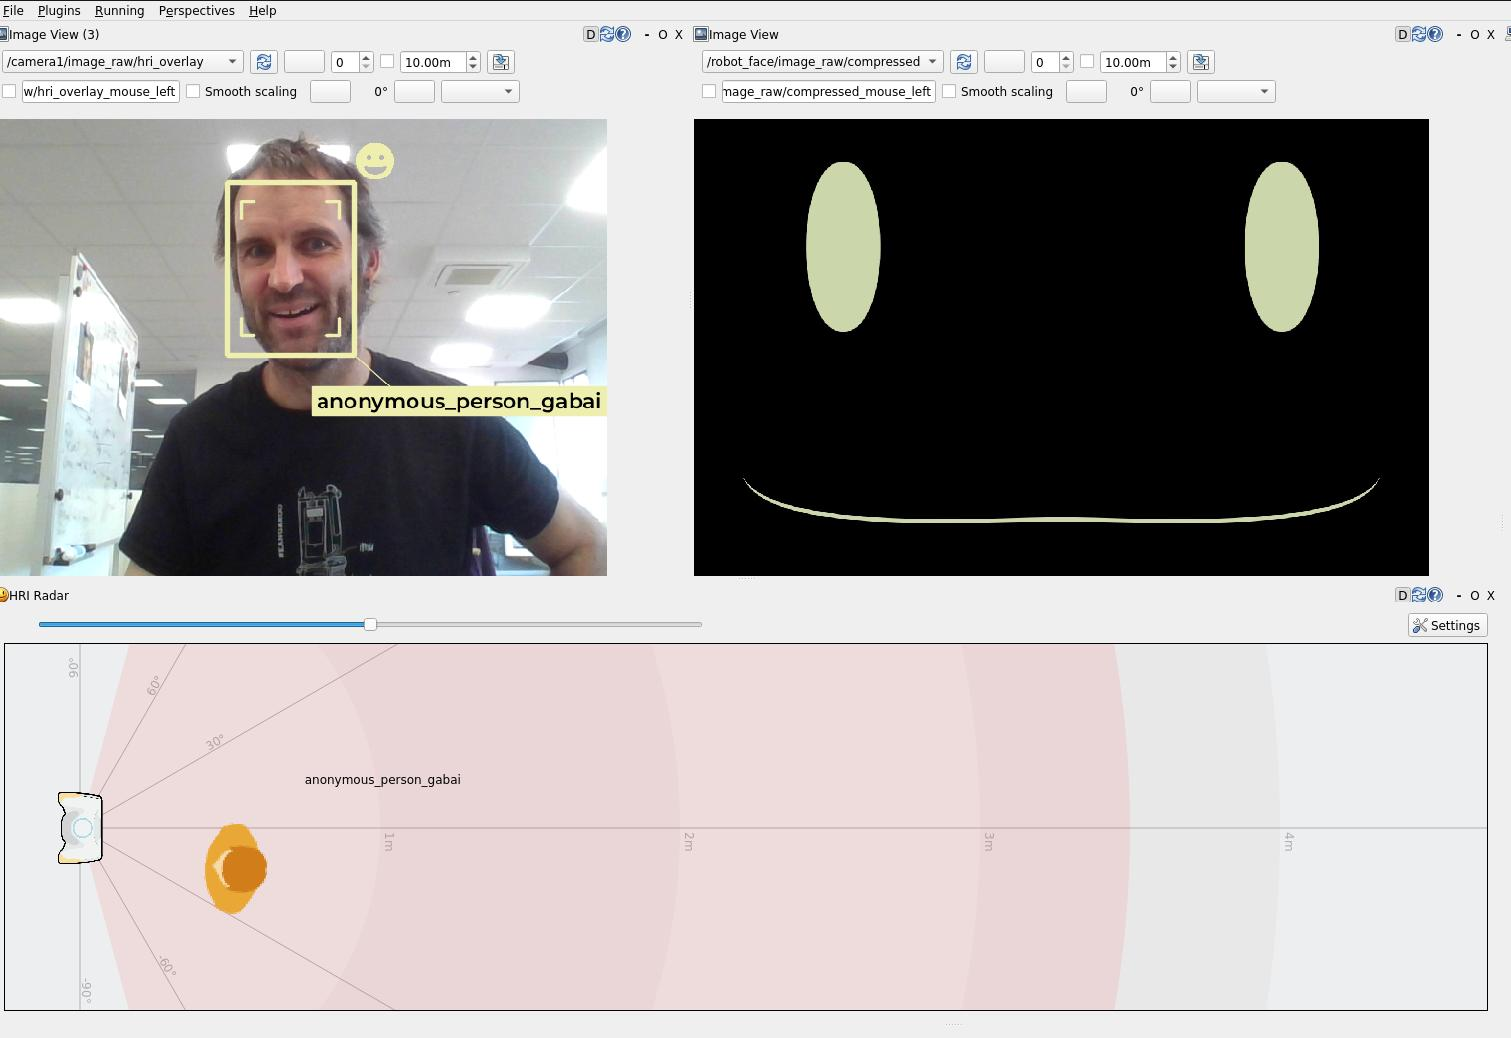
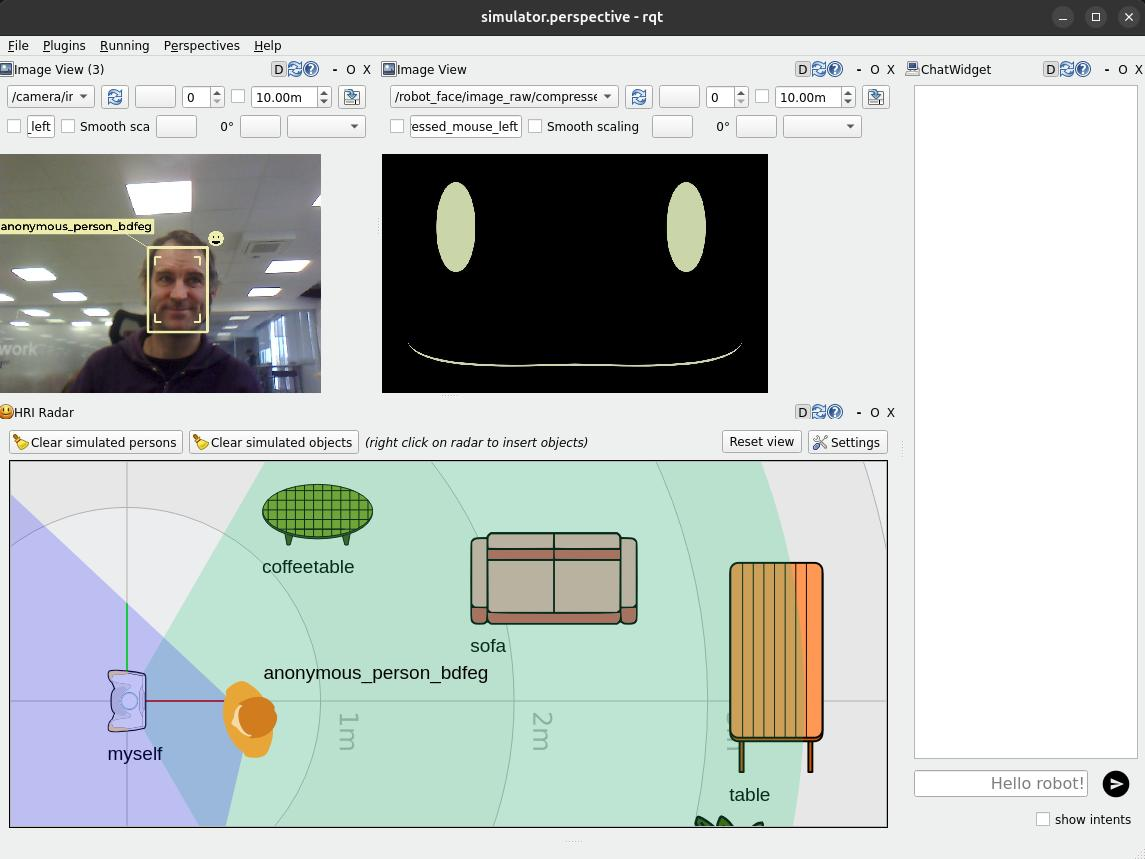
WIP updates to interactive robots tutorial

diff --git a/interactive-social-robots/README.md b/interactive-social-robots/README.md
@@ -25,7 +25,7 @@ application templates, and a LLM backend.
 **Note: the content on this page is not final, and will be updated before the
 tutorial day.**
 
-## CHAPTER 0: Preparing your environment
+## PART 0: Preparing your environment
 
 ### Pre-requisites
 
@@ -67,7 +67,7 @@ docker run -it --name ros4hri \
 > `-e: DISPLAY` and `-v /tmp/.X11-unix:/tmp/.X11-unix` options are used to display
 > graphical applications on your screen.
 
-## CHAPTER 1: Face detection
+## PART 1: Warming-up with face detection
 
 
 ### Start the webcam node
@@ -77,8 +77,14 @@ First, let's start a webcam node to publish images from the webcam to ROS.
 In the terminal, type:
 
 ```sh
-ros2 launch usb_cam camera.launch.py
+ros2 run gscam gscam_node --ros-args -p gscam_config:='v4l2src device=/dev/video0 ! video/x-raw,framerate=30/1 ! videoconvert' -p use_sensor_data_qos:=True -p camera_name:=camera -p frame_id:=camera -p camera_info_url:=package://interaction_sim/config/camera_info.yaml
 ```
+
+> 💡 the `gscam` node is a ROS 2 node that captures images from a webcam and
+> publishes them on a ROS topic. The `gscam_config` parameter is used to specify
+> the webcam device to use (`/dev/video0`), and the `camera_info_url` parameter
+> is used to specify the camera calibration file. We use a default calibration
+> file that works reasonably well with most webcams.
 
 You can open `rqt` to check that the images are indeed published:
 
@@ -92,17 +98,10 @@ rqt
 ```
 
 Then, in the `Plugins` menu, select `Visualization > Image View`, and choose the topic
-`/camera1/image_raw`:
+`/camera/image_raw`:
 
 
 ![rqt image view](images/rqt-image-view.jpg)
-
-
-> 💡 the camera image might freeze after a while: it is a known issue with
-> `usb_cam` (due to their configuration of ROS 2 Quality of
-> Service parameters).
->
-> Simple restart the `usb_cam` node to fix the issue (Ctrl+C to stop the node).
 
 ### Face detection
 
@@ -123,9 +122,11 @@ Then, paste the following content:
 ```yaml
 /hri_face_detect:
    remappings:
-      image: /camera1/image_raw
-      camera_info: /camera1/camera_info
+      image: /camera/image_raw
+      camera_info: /camera/camera_info
 ```
+
+Press `Ctrl+O` to save, then `Ctrl+X` to exit.
 
 Then, you can launch the node:
 
@@ -153,8 +154,8 @@ $ ros2 launch hri_face_detect face_detect.launch.py
 - deterministic_ids: False
 - debug: False
 [INFO] [launch.user]: Remappings:
-- image -> /camera1/image_raw
-- camera_info -> /camera1/camera_info
+- image -> /camera/image_raw
+- camera_info -> /camera/camera_info
 [INFO] [face_detect-1]: process started with pid [214]
 ...
 ```
@@ -167,8 +168,6 @@ $ ros2 launch hri_face_detect face_detect.launch.py
 > to understand how it is used.
 
 You should immediately see on the console that some faces are indeed detected
-(if not, try restart the `usb_cam` node: ROS 2 sometimes struggles with large
-messages like images).
 
 Let's visualise them:
 
@@ -181,28 +180,50 @@ rviz2
 2. In `rviz`, visualize the detected faces by adding the `Humans` plugin,
    which you can find in the `hri_rviz` plugins group. The plugin setup
    requires you to specify the image stream you want to use to visualize the
-   detection results, in this case `/camera1/image_raw`.
+   detection results, in this case `/camera/image_raw`.
    You can also find the plugin as one of those available 
-   for the `/camera1/image_raw` topic.
+   for the `/camera/image_raw` topic.
 
-3. In `rviz`, add as well the `tf` plugin, and set the fixed frame to `camera`. 
+> ‼ **Important**: set the quality of service (QoS) of the `/camera/image_raw`
+> topic to `Best Effort`:
+>
+> ![Set the QoS of the `/camera/image_raw` topic to `Best Effort`](../images/rviz-humans-qos.png)
+
+3. In `rviz`, enable as well the `tf` plugin, and set the fixed frame to `camera`. 
    You should now see a 3D frame, representing the face position and orientation of your face.
 
 
 ![rviz showing a 3D face frame](images/rviz-face.jpg)
 
-## CHAPTER 2: Building a social robot architecture
 
-### Using the interaction simulator
+> **➡ to go deeper**
+>
+> In today's tutorial, we will not go much further with exploring the ROS4HRI tools
+> and nodes. However, you can find more information:
+> - HRI'23 presentation: [ROS4HRI: A ROS-based Framework for Human-Robot Interaction](https://docs.google.com/presentation/d/1SSq6OmH_qBbjvXN93acqd92QnkmqMuaY/edit?usp=sharing&ouid=115732286809506967228&rtpof=true&sd=true)
+> - [PAL Robotics public
+>   documentation](https://docs.pal-robotics.com/edge/social-perception/) that
+>   includes multiple tutorials and examples
+> - on the [ROS4HRI](https://wiki.ros.org/hri) wiki page
+> - in the ROS4HRI (ROS 1) tutorial [here](../intro-ros4hri-devcontainers/)
+>
+> You can also check the [ROS4HRI Github organisation](https://github.com/ros4hri/)
+> and the [original paper](https://academia.skadge.org/publis/mohamed2021ros4hri.pdf).
 
-Instead of running nodes manually, we are now going to use our so-called *interaction simulator*:
+
+
+## PART 2: the social interaction simulator
+
+### Starting the interaction simulator
+
+Instead of running nodes manually, we are now going to use PAL *interaction simulator*:
 
 ![Social interaction simulator](images/interaction_sim.jpg)
 
 
 **To start the simulator:**
 
-1. stop all the nodes that are running (like `usb_cam`, `hri_face_detect`,
+1. stop all the nodes that are running (like `gscam`, `hri_face_detect`,
    `rqt,` etc)
 2. in one of your Docker terminals, launch the simulator:
 
@@ -210,47 +231,110 @@ Instead of running nodes manually, we are now going to use our so-called *intera
 ros2 launch interaction_sim simulator.launch.py
 ```
 
+**To load a pre-configured scene:**
+
+On the screenshot above, the objets (sofa, table, etc) are defined in an custom
+SVG file.
+
+You can load such a pre-configured scene:
+
+1. click on `Settings`, then `Download environment SVG template` and save the
+   file in the `exchange` folder (call it for instance `scene.svg`).
+2. click on `Load environment` and select the file you just saved.
+
+> 💡 you can open the SVG file in a vector editor like Inkscape to 
+> modify the scene (add new objects, change the layout, etc). Check the instructions
+> written in the template itself.
+
+### Interaction simulator architecture
+
 The interaction simulator starts several nodes:
 
 The previous two:
-- `usb_cam` to publish images from the webcam
-- [`hri_face_detect`](https://github.com/ros4hri/hri_face_detect) to detect faces in images
+
+1. [`gscam`](https://github.com/ros-drivers/gscam/tree/ros2) to publish images from the webcam
+2. [`hri_face_detect`](https://github.com/ros4hri/hri_face_detect) to detect faces in images
 
 And the following new nodes:
-- [`hri_person_manager`](https://github.com/ros4hri/hri_visualization), to 'combine' faces, bodies, voices into full persons
-- [`hri_emotion_recognizer`](https://github.com/ros4hri/hri_emotion_recognizer), to recognize emotions on the detected faces
-- `attention_manager`, that decides where to look based on the where the faces are
-- `expressive_eyes`, that procedurally generates the robot's face and moves the eyes
-- `communication_hub`, that manages the dialogues with the user (user input speech, and robot output speech)
-- [`knowledge_core`](https://github.com/severin-lemaignan/knowledge_core), an open-source OWL/RDF-based knowledge base
-- [`hri_visualization`](https://github.com/ros4hri/hri_visualization) to generate a camera image overlay with the faces, bodies, emotions, etc
+
+3. [`hri_person_manager`](https://github.com/ros4hri/hri_person_manager), to 'combine' faces, bodies, voices into full persons
+4. [`hri_emotion_recognizer`](https://github.com/ros4hri/hri_emotion_recognizer), to recognize emotions on the detected faces
+5. [`knowledge_core`](https://github.com/severin-lemaignan/knowledge_core), an open-source OWL/RDF-based knowledge base
+6. [`hri_visualization`](https://github.com/ros4hri/hri_visualization) to generate a camera image overlay with the faces, bodies, emotions, etc
+7. `attention_manager` (not open-source), that decides where to look based on the where the faces are
+8. `expressive_eyes` (not open-source), that procedurally generates the robot's face and moves the eyes
+9. `communication_hub` (not open-source), that manages the dialogues with the user (user input speech, and robot output speech)
 
 Finally, it launches `rqt` with two custom plugins:
 
-- [`rqt_human_radar`](https://github.com/ros4hri/rqt_human_radar), to visualize
+10. [`rqt_human_radar`](https://github.com/ros4hri/rqt_human_radar), to visualize
   the detected people around the robot (and simulated interactions with a
   knowledge base)
-- [`rqt_chat`](https://github.com/pal-robotics/rqt_chat), to chat with the
+11. [`rqt_chat`](https://github.com/pal-robotics/rqt_chat), to chat with the
   robot. When you type a message, it is sent to the ROS4HRI topic
   `/humans/voices/anonymous_speaker/speech`, and the robot's response via the
   `/tts_engine/tts` action are displayed back.
 
-> 💡 refer to the [tutorial
-> slides](https://docs.google.com/presentation/d/1u8cJRri3J38OIdEW79IoqLq2Tniya7Sg/edit?usp=sharing&ouid=115732286809506967228&rtpof=true&sd=true)
-> for more information on the architecture of the interaction simulator.
+
+The next figure shows the architecture of the interaction simulator:
+
+![Interaction simulator architecture](images/interaction-simulator-architecture.png)
+
+### Using the simulator to add symbolic knowledge
+
+When starting the simulator, `knowledge_core` is also started. `knowledge_core`
+is a simple OWL/RDF-based knowledge base that can be used to store symbolic
+information about the world.
+
+By right-clicking on the top-down view of the environment, you can add new
+objects to the knowledge base:
+
+![Adding a new object to the knowledge base](images/interaction_sim_facts.png)
+
+The simulator will then publish the new facts on to the knowledge base,
+including whether or not a given object is in the field of view of the robot
+and/or humans (eg `myself sees cup_abcd` or `person_lkhgx sees sofa`).
+
+You can easily query the knowledge base from Python:
+
+Start `ipython3` in the terminal:
+
+```sh
+ipython3
+```
+
+Then, in the Python shell:
+
+```python
+from knowledge_core.api import KB
+kb = KB()
+
+kb["* sees *"]
+```
+
+This will return all the facts in the knowledge base that match the pattern `*
+sees *` (ie, all the objects that are seen by someone).
+
+You can also create more complex queries by passing a *list* of semantic
+patterns and using *named variables*:
+
+```python
+kb[["?h sees ?o", "?o rdf:type dbr:Cup", "?h rdf:type Human"]]
+```
+
+This will return all the facts in the knowledge base where a human sees a cup.
+
+> 💡 note the `dbr:` prefix in front of `Cup`: the simulator uses the 'cup'
+> concept defined in the DBPedia ontology.
 
 
-> **➡ to go further**
+> **➡ to go deeper**
 >
-> In today's tutorial, we will not go much further with exploring the ROS4HRI tools
-> and nodes. However, you can find more information:
-> - HRI'23 presentation: [ROS4HRI: A ROS-based Framework for Human-Robot Interaction](https://docs.google.com/presentation/d/1SSq6OmH_qBbjvXN93acqd92QnkmqMuaY/edit?usp=sharing&ouid=115732286809506967228&rtpof=true&sd=true)
-> - on the [ROS4HRI](https://wiki.ros.org/hri) wiki page
-> - in the ROS4HRI (ROS 1) tutorial [here](../intro-ros4hri-devcontainers/)
->
-> You can also check the [ROS4HRI Github organisation](https://github.com/ros4hri/)
-> and the [original paper](https://academia.skadge.org/publis/mohamed2021ros4hri.pdf).
+> To learn mode about PAL interaction simulator, check PAL Robotics' [public
+> documentation](https://docs.pal-robotics.com/edge/development/interaction-simulator).
 
+
+## PART 3: Building a simple social behaviour
 
 ### Our first mission controller
 
@@ -279,7 +363,7 @@ ROS 2 nodes from templates.
 cd ~/exchange
 
 # you might have to change the rights of the folder
-sudo chmod user:user .
+sudo chown user:user .
 
 mkdir ws
 cd ws
@@ -296,19 +380,25 @@ Full name of your skill/application? (eg 'The Receptionist Robot' or 'Database c
 
 Choose a template:
 1: base robot supervisor [python]
-2: robot supervisor with intents handler [python]
+2: robot supervisor with pre-filled intent handlers [python]
+3: robot supervisor with a GUI and pre-filled intent handlers [python]
+4: complete supervisor example, using a basic chatbot to manage interactions with users [python]
+5: complete supervisor example, using LLMs to manage interactions with users [python]
 
 Your choice? 1
 
 What robot are you targeting?
-1: generic
-2: ari
-3: tiago
+1: Generic robot (generic)
+2: Generic PAL robot/simulator (generic-pal)
+3: PAL ARI (ari)
+4: PAL TIAGo (tiago)
+5: PAL TIAGo Pro (tiago-pro)
+6: PAL TIAGo Head (tiago-head)
 
-Your choice? (default: 1: generic) 1
+Your choice? (default: 1: generic) 2
 ```
 
-Choose a `base robot supervisor` template, and the `generic` robot.
+Choose a `base robot supervisor` template, and the `generic-pal` robot.
 
 The tool will then create a complete ROS 2 mission controller, ready to listen
 to incoming user intents (eg, ROS messages pubished on the `/intents` topic).
